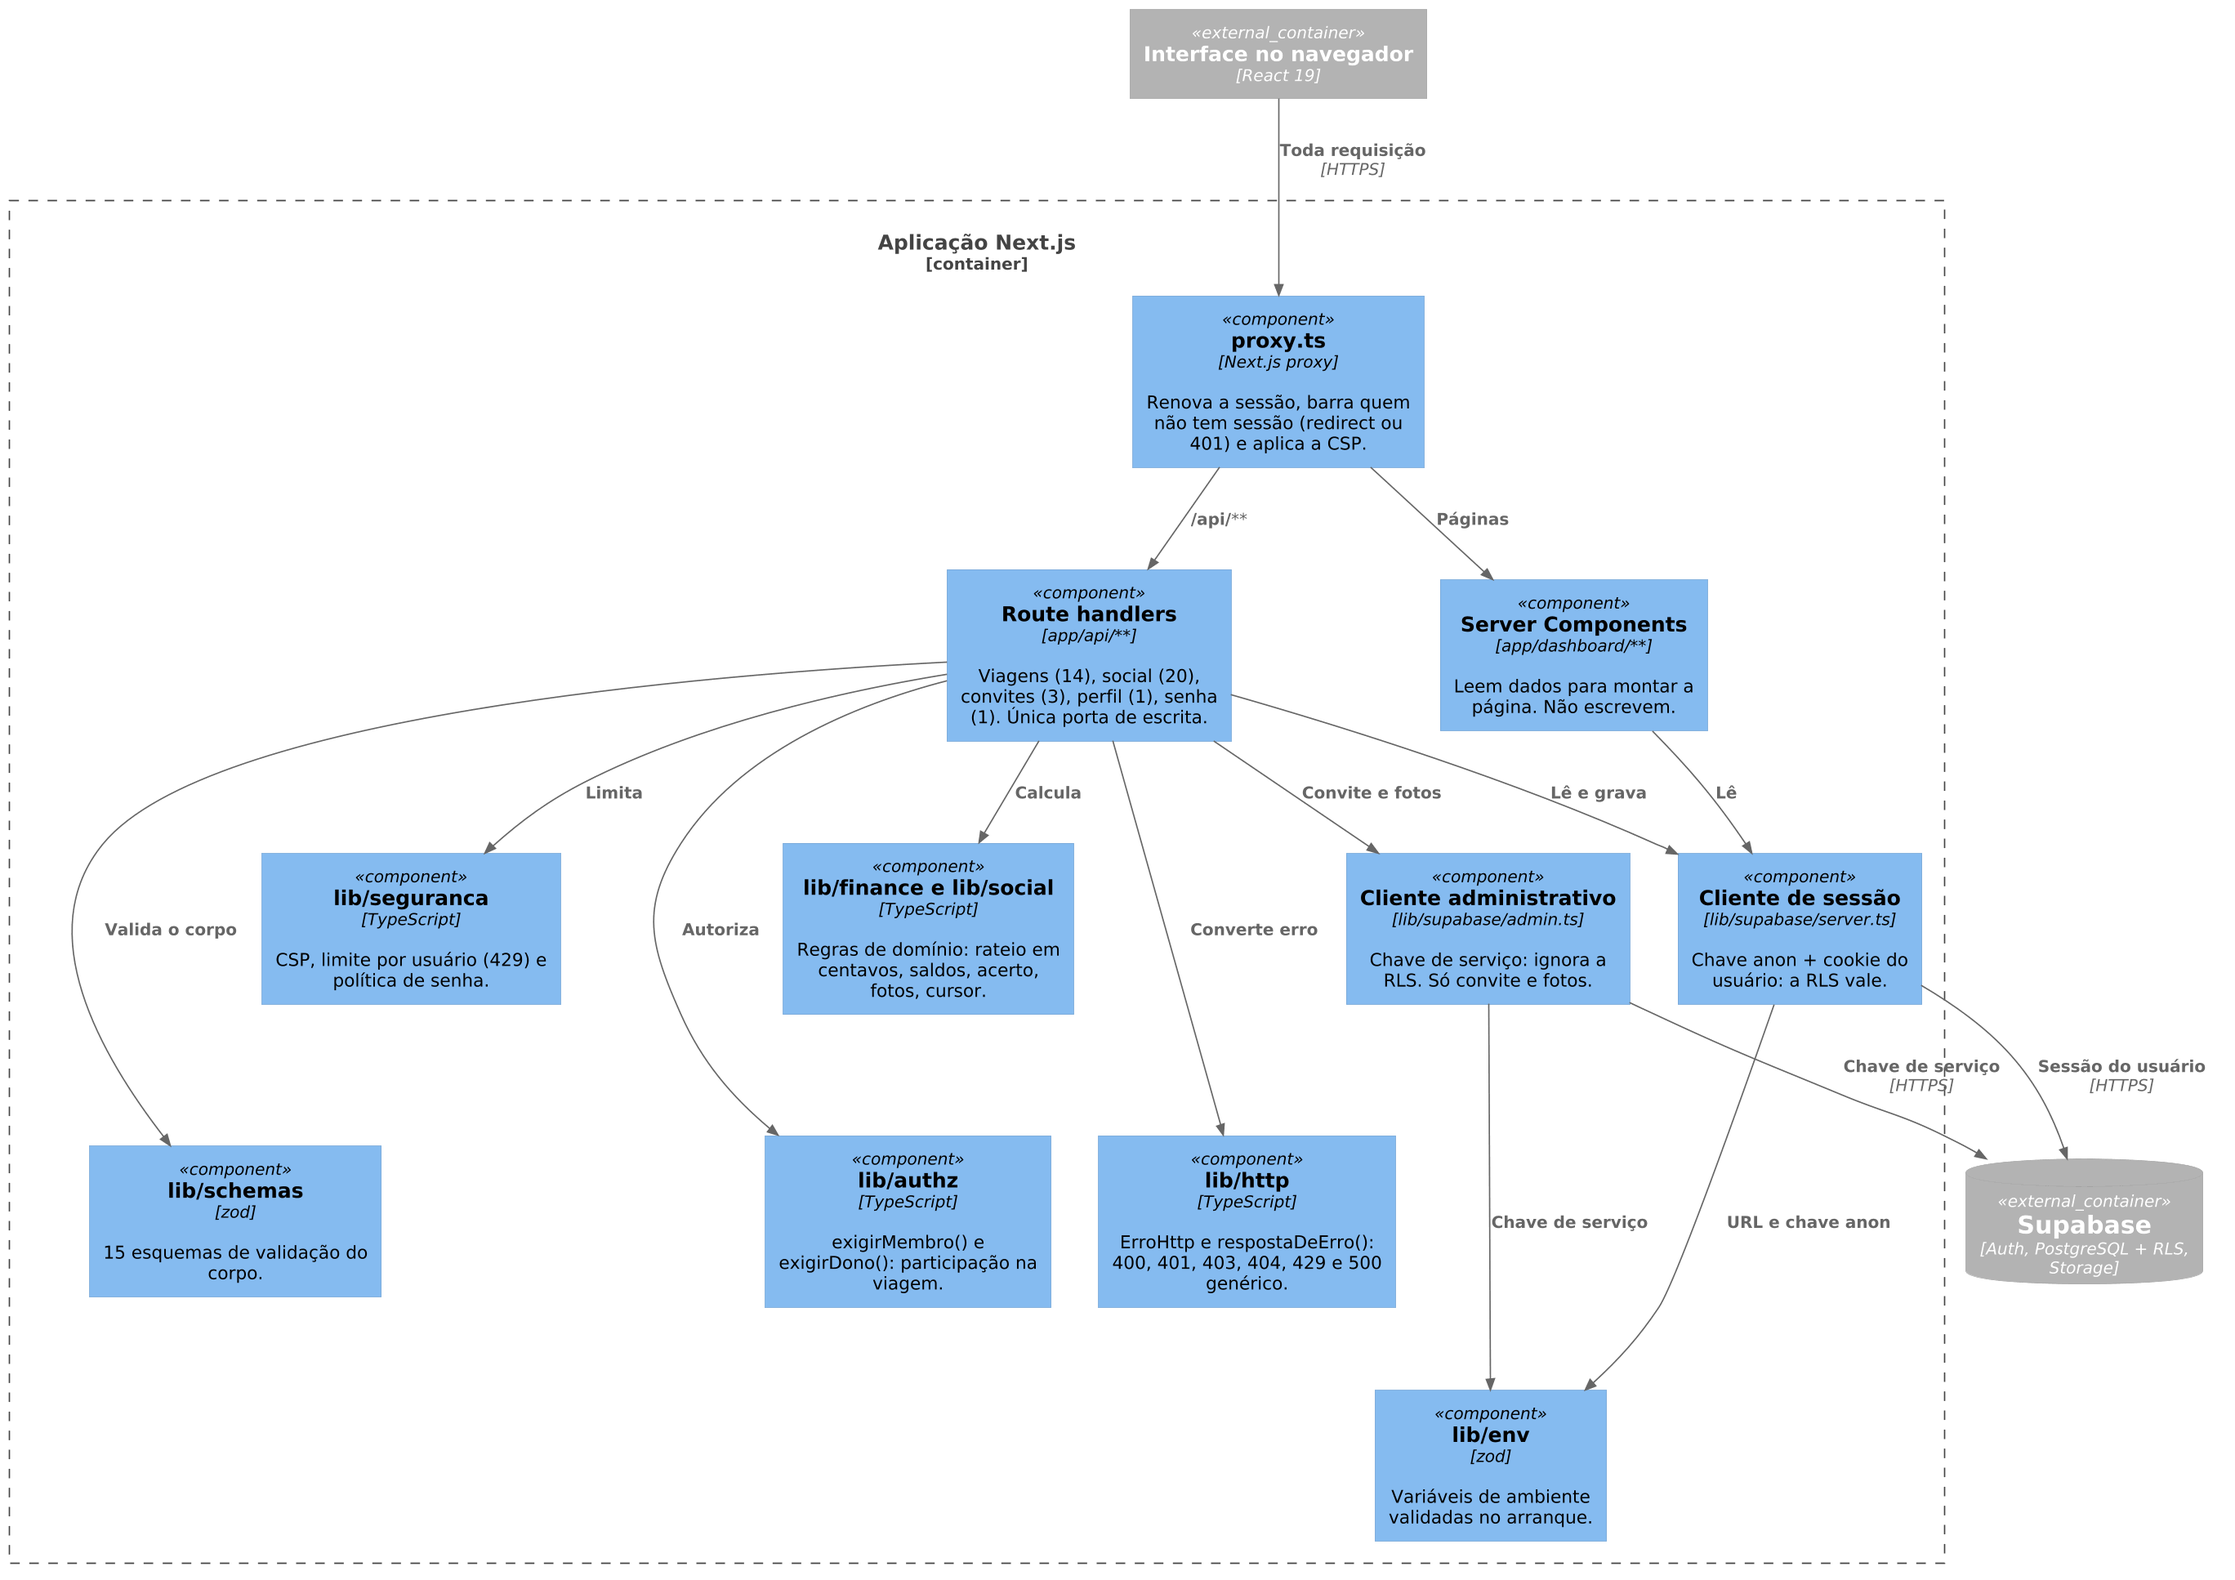
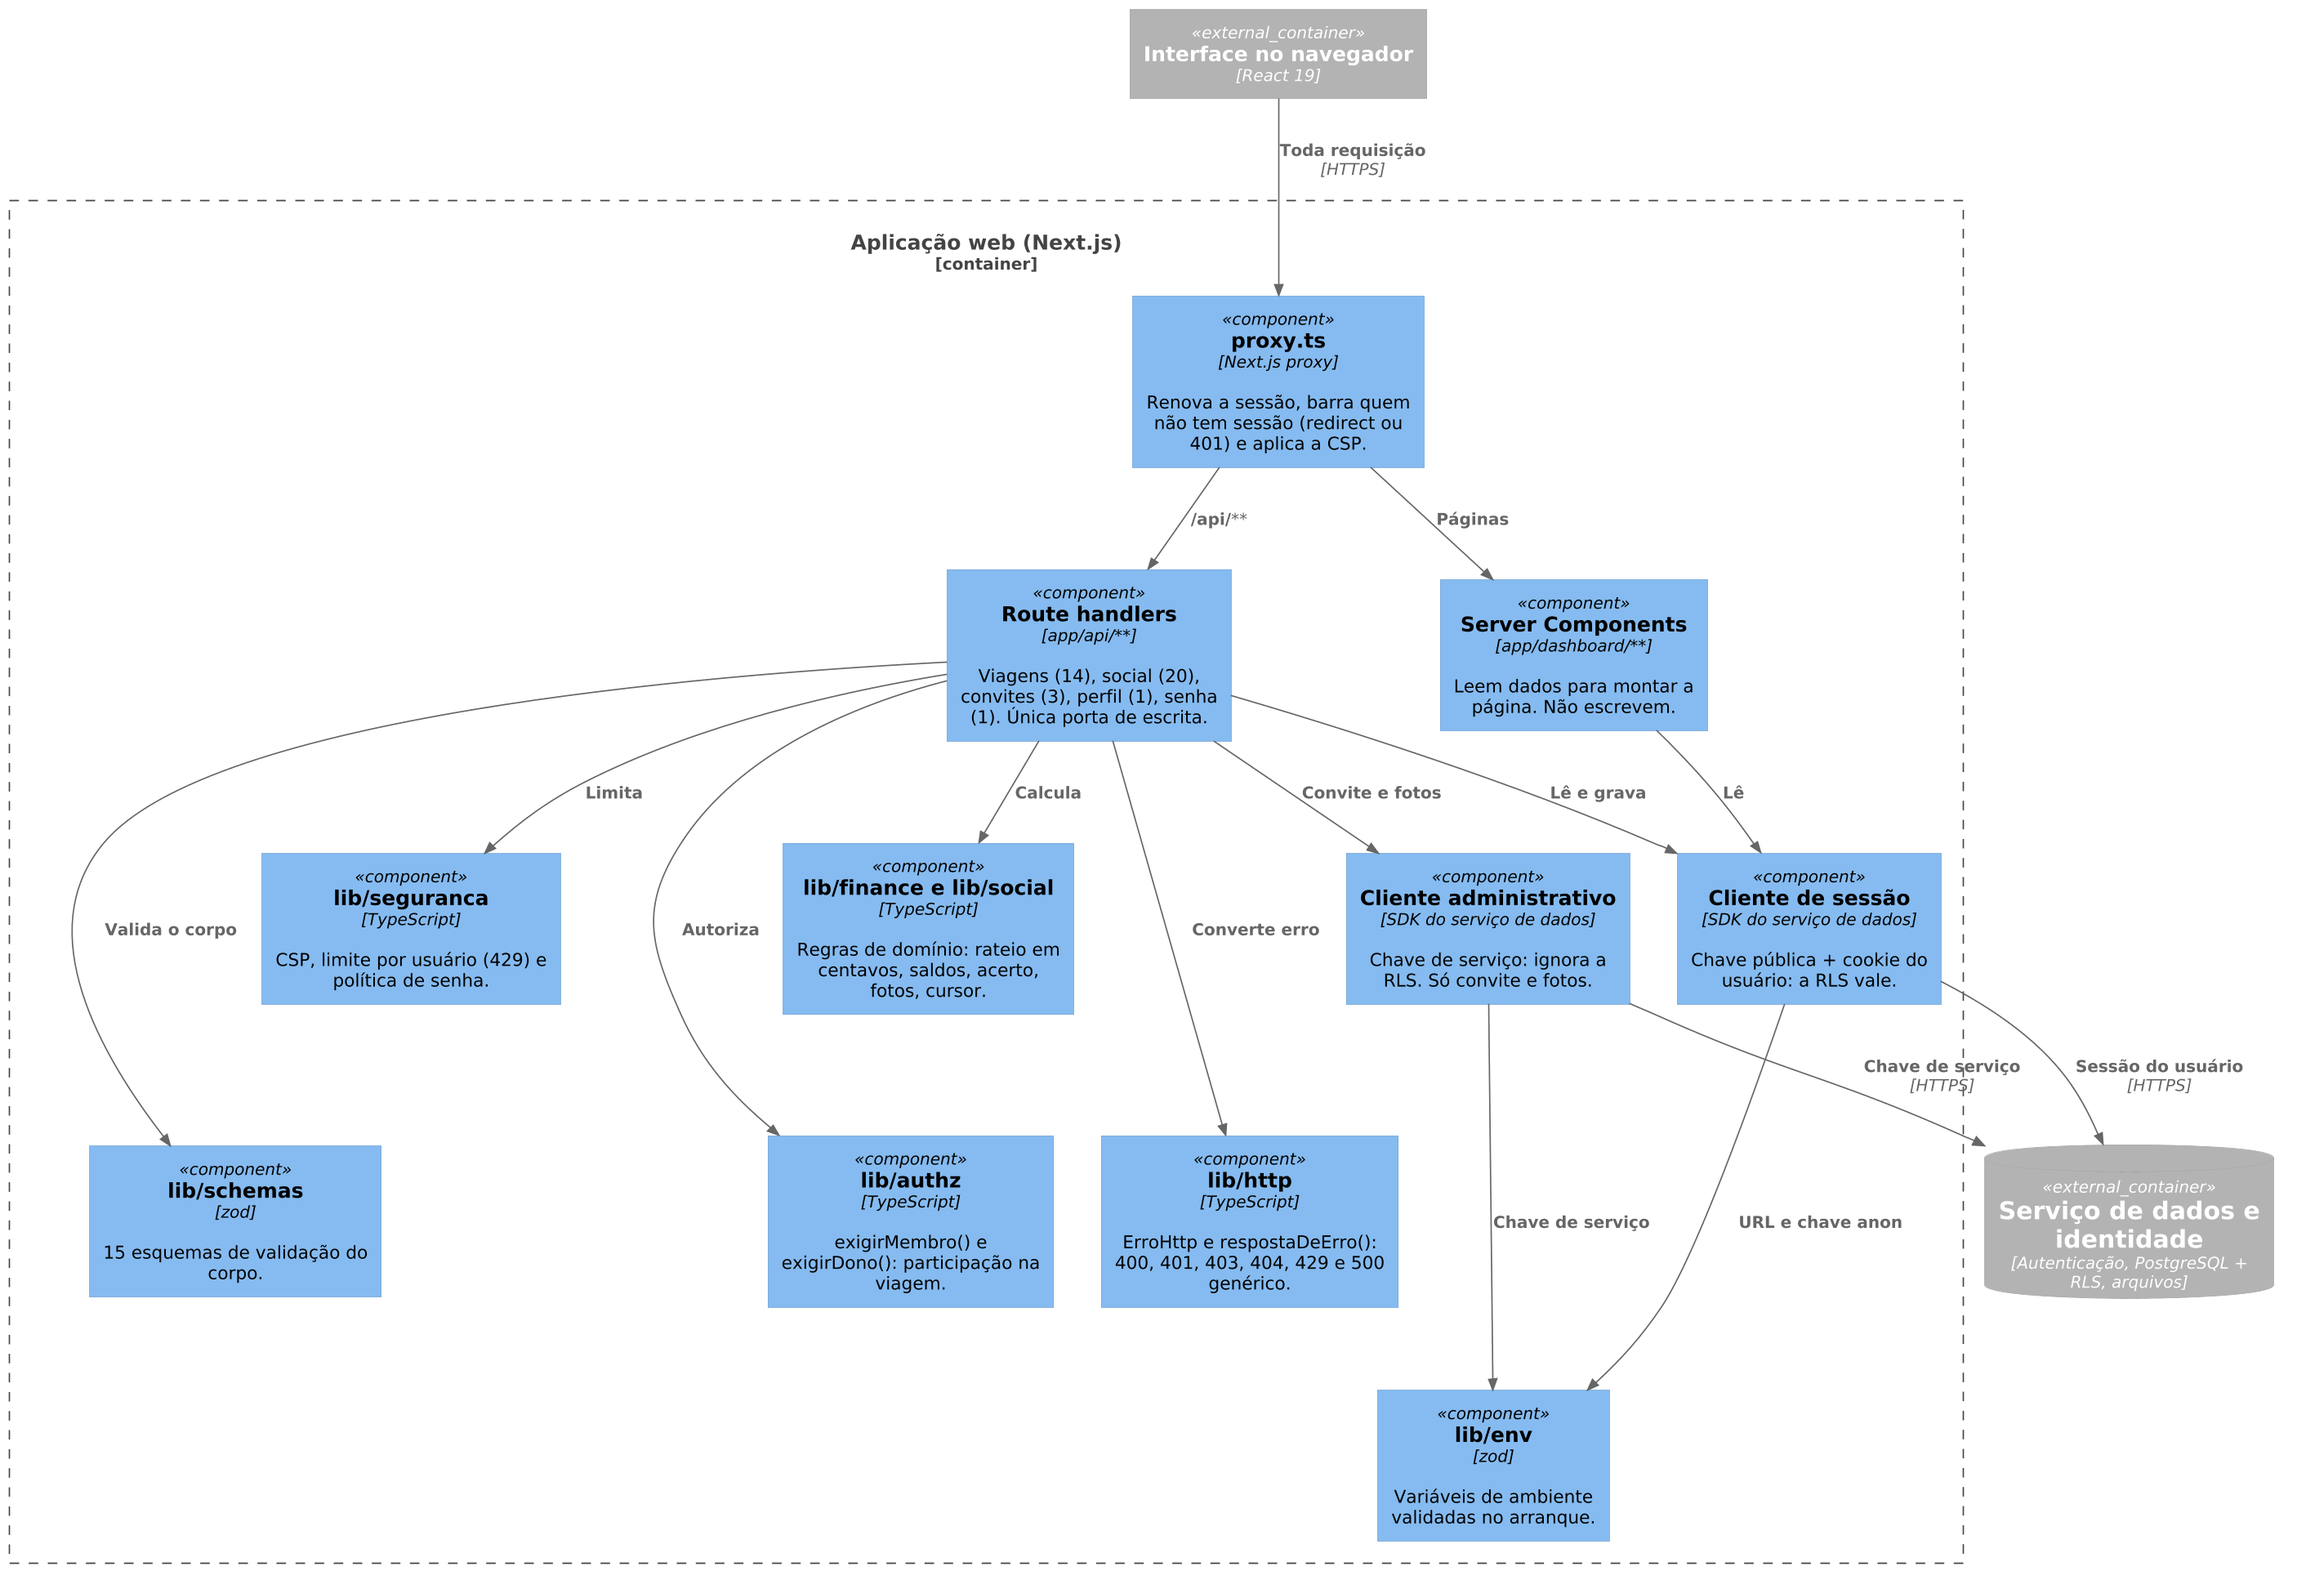
docs(RNF04.1): diagramas com papéis genéricos e monitor concluído
As figuras passam a nomear papéis (serviço de dados e identidade,
hospedagem, serviço de mapas, repositório e integração contínua) em vez dos
provedores, porque o ambiente pode mudar sem que a arquitetura mude. A seção
20 abre com a tabela que liga cada papel ao provedor atual, e a 21 organiza
as tecnologias pelos mesmos nomes.

O diagrama de implantação ganha o monitor de disponibilidade. A atividade
S14-F-monitor-disponibilidade fica concluída, com a verificação em produção.

diff --git a/docs/pfc/05-arquitetura/21-tecnologias.md b/docs/pfc/05-arquitetura/21-tecnologias.md
@@ -8,16 +8,16 @@ Organizamos as tecnologias pelos contêineres do diagrama C4 da Figura 20.2, de 
 | Interface no navegador | Tailwind CSS ^4.1.9 | Estilo | Estilo junto do componente, sem folhas globais que se sobrepõem e causam efeito colateral em outras telas |
 | Interface no navegador | shadcn/ui sobre Radix UI (pacotes 1.x e 2.x) | Diálogos, menus, campos e notificações | Componentes acessíveis por teclado e leitor de tela, copiados para `components/ui` e adaptáveis sem esperar a biblioteca |
 | Interface no navegador | recharts 2.15.4 e lucide-react ^0.454.0 | Gráfico de despesas por categoria e ícones | Gráfico declarativo em React, sem código de desenho próprio |
-| Aplicação Next.js | Next.js ^16.3.3 (App Router) | `proxy.ts`, Server Components e route handlers | Páginas e rotas de dados no mesmo projeto, com uma linguagem e uma publicação para uma equipe de quatro |
-| Aplicação Next.js | TypeScript ^5, modo estrito | Linguagem de todo o código | Os tipos das tabelas são gerados do banco (`types/database.ts`); divergência com o schema vira erro de compilação |
-| Aplicação Next.js | zod 3.25.76 | Validação do corpo das rotas e das variáveis de ambiente | O resultado validado é tipado, o que torna natural gravar campo a campo e impede a atribuição em massa |
-| Aplicação Next.js | @supabase/ssr (latest) e @supabase/supabase-js ^2.47.10 | Clientes de sessão e administrativo | Leem a sessão do cookie no servidor, de modo que a RLS vale também nas rotas |
-| Aplicação Next.js | sharp 0.35.4 | Regera as fotos enviadas | Decodifica e regrava a imagem em WebP, sem metadados de localização, antes de ela chegar ao Storage |
-| Supabase Auth | GoTrue, operado pelo Supabase | Cadastro, sessão, recuperação de senha, convite por e-mail | Autenticação por serviço maduro; hash de senha e token escritos por nós seriam vulnerabilidade |
-| PostgreSQL | PostgreSQL 17 com RLS | 18 tabelas, políticas, funções e gatilhos | Modelo relacional forte e segurança por linha: o requisito central é de acesso, e resolvê-lo no banco evita que uma falha de código vire vazamento |
-| Supabase Storage | Buckets privados `avatars` e `capas-posts` | Fotos de perfil e de publicação | Mesmo provedor do banco e da autenticação; a foto de perfil é entregue por URL assinada que expira em 10 minutos |
-| Google Maps Platform | Maps JavaScript API e Places | Busca de lugares e exibição no mapa | Base de lugares que a equipe não teria como manter; consumida só no navegador, em dois componentes |
-| Aplicação Next.js (hospedagem) | Vercel | Rede de borda e funções sem estado | Publicação a cada merge na `main`, HTTPS e distribuição de conteúdo estático sem servidor para administrar |
+| Aplicação web | Next.js ^16.3.3 (App Router) | `proxy.ts`, Server Components e route handlers | Páginas e rotas de dados no mesmo projeto, com uma linguagem e uma publicação para uma equipe de quatro |
+| Aplicação web | TypeScript ^5, modo estrito | Linguagem de todo o código | Os tipos das tabelas são gerados do banco (`types/database.ts`); divergência com o schema vira erro de compilação |
+| Aplicação web | zod 3.25.76 | Validação do corpo das rotas e das variáveis de ambiente | O resultado validado é tipado, o que torna natural gravar campo a campo e impede a atribuição em massa |
+| Aplicação web | @supabase/ssr (latest) e @supabase/supabase-js ^2.47.10 | Clientes de sessão e administrativo | Leem a sessão do cookie no servidor, de modo que a RLS vale também nas rotas |
+| Aplicação web | sharp 0.35.4 | Regera as fotos enviadas | Decodifica e regrava a imagem em WebP, sem metadados de localização, antes de ela chegar ao Storage |
+| Autenticação | GoTrue, operado pelo Supabase | Cadastro, sessão, recuperação de senha, convite por e-mail | Autenticação por serviço maduro; hash de senha e token escritos por nós seriam vulnerabilidade |
+| Banco de dados | PostgreSQL 17 com RLS, no Supabase | 18 tabelas, políticas, funções e gatilhos | Modelo relacional forte e segurança por linha: o requisito central é de acesso, e resolvê-lo no banco evita que uma falha de código vire vazamento |
+| Armazenamento de arquivos | Supabase Storage, buckets privados `avatars` e `capas-posts` | Fotos de perfil e de publicação | Mesmo provedor do banco e da autenticação; a foto de perfil é entregue por URL assinada que expira em 10 minutos |
+| Serviço de mapas | Google Maps Platform: Maps JavaScript API e Places | Busca de lugares e exibição no mapa | Base de lugares que a equipe não teria como manter; consumida só no navegador, em dois componentes |
+| Hospedagem da aplicação | Vercel | Rede de borda e funções sem estado | Publicação a cada merge na `main`, HTTPS e distribuição de conteúdo estático sem servidor para administrar |
 
 Agrupamos os três serviços do Supabase porque foram escolhidos juntos: um único projeto fornece banco, autenticação e arquivos, com ambiente local idêntico em Docker. Isso permitiu concentrar o semestre nas regras de acesso e nas funcionalidades, e não na operação de servidores.
 

diff --git a/docs/pfc/05-arquitetura/20-arquitetura-geral.md b/docs/pfc/05-arquitetura/20-arquitetura-geral.md
@@ -4,6 +4,16 @@ O Viaja Mais é uma aplicação web organizada em três partes: a interface que 
 
 Descrevemos a arquitetura com o modelo C4, que representa o software em níveis sucessivos de detalhe: contexto, contêineres e componentes. A subseção 20.3 trata da implantação, a 20.4 confronta as decisões com os requisitos não funcionais da seção 15 e a 20.5 apresenta a migração planejada para um backend separado. A versão avaliada é a da branch `main`; a arquitetura-alvo da 20.5 não está em produção.
 
+As figuras desta seção usam nomes genéricos para os serviços externos e para a infraestrutura, porque o provedor de cada papel pode mudar sem que a arquitetura mude; a subseção 20.5 trata justamente de uma dessas trocas. O texto, por sua vez, nomeia o provedor atual. A correspondência é esta:
+
+| Nas figuras | Provedor atual |
+|---|---|
+| Serviço de dados e identidade | Supabase: autenticação (GoTrue), PostgreSQL e Storage |
+| Hospedagem da aplicação | Vercel: rede de distribuição e funções sob demanda |
+| Serviço de mapas | Google Maps Platform: Maps JavaScript API e Places |
+| Repositório e integração contínua | GitHub e GitHub Actions |
+| Banco e autenticação locais | Supabase local, em contêineres Docker |
+
 ### 20.1 Contexto e contêineres
 
 ![Figura 20.1 — Diagrama de contexto (C4, nível 1)](../diagramas/20-1-c4-contexto.png)
@@ -54,7 +64,7 @@ As leituras das telas seguem outro caminho: cinco páginas de `app/dashboard/**`
 
 O diagrama de implantação mostra onde cada contêiner executa. No dispositivo do usuário executa a interface. Na Vercel há dois nós: a rede de borda, que entrega os arquivos estáticos a partir do ponto mais próximo do usuário, e as funções sob demanda, que executam a aplicação Next.js sem guardar estado entre requisições. O projeto Supabase de produção hospeda o PostgreSQL, o Auth e o Storage.
 
-O GitHub guarda o repositório e executa a esteira no GitHub Actions. Dentro de cada execução, o Supabase CLI 2.104.0 sobe em Docker um Supabase local e efêmero, com PostgreSQL, Auth e Storage, aplica as migrations do zero e carrega os dois usuários de teste. É o mesmo ambiente que cada integrante sobe na própria máquina com `npm run setup`. Por isso nenhum teste toca o banco de produção e nenhuma credencial de banco é compartilhada.
+O GitHub guarda o repositório e executa a esteira no GitHub Actions. Dentro de cada execução, o Supabase CLI 2.104.0 sobe em Docker um Supabase local e efêmero, com PostgreSQL, Auth e Storage, aplica as migrations do zero e carrega os dois usuários de teste. É o mesmo ambiente que cada integrante sobe na própria máquina com `npm run setup`. Por isso nenhum teste toca o banco de produção e nenhuma credencial de banco é compartilhada. No mesmo serviço roda o monitor de disponibilidade (seção 24.2), que consulta a aplicação publicada a cada cinco minutos.
 
 Um commit chega à produção por este caminho:
 

diff --git a/docs/plans/S14-F-monitor-disponibilidade.md b/docs/plans/S14-F-monitor-disponibilidade.md
@@ -10,7 +10,7 @@ secoes_doc: ["00", 15, 20, 21, 23, 24]
 branch: feat/S14-F-monitor-disponibilidade
 tipo: [route-handler, ci, documentacao]
 depende_de: [S14-F-entrega]
-status: em-revisao
+status: concluido
 ---
 # Monitor de disponibilidade em produção e backup confirmado
 
@@ -70,11 +70,18 @@ Rota sem sessão por natureza: os caminhos 401/403/400 não se aplicam. Em troca
 
 - [x] A rota não devolve dado de usuário nem detalhe de erro
 - [x] Nenhuma outra rota ficou pública
-- [ ] Primeira execução agendada verde em produção, depois do deploy
-- [ ] `npm run pfc:metricas` mostra a seção de disponibilidade com amostras
+- [x] Primeira execução verde em produção, depois do deploy (disparada à mão em 22/11, 20:30 UTC)
+- [x] `npm run pfc:metricas` calcula a seção de disponibilidade; as amostras agendadas começam a contar a partir da primeira execução automática
 
 ## 6. Evidência
 
 Execução local de 22/11/2026 contra o build de produção e o Supabase local:
 banco no ar → "No ar" (página 231 ms, saúde 175 ms); banco parado → "FORA DO AR",
 `/api/saude` 503 nas duas tentativas; banco de volta → 200.
+
+Produção, 22/11/2026, depois do merge do #84:
+
+- `https://viaja-mais.online/api/saude` → 200, `{"status":"ok","banco":"ok"}`, `Cache-Control: no-store`.
+- `node scripts/monitor/verificar.mjs https://viaja-mais.online` → "No ar" (página 833 ms, saúde 682 ms).
+- `/api/saude/x`, `/api/saudex` e `/api/trips` sem sessão → 401: nenhuma outra rota abriu.
+- Workflow Disponibilidade disparado na `main`: https://github.com/Fernando-Oli/viaja-mais/actions/runs/45066849079 — sucesso.
